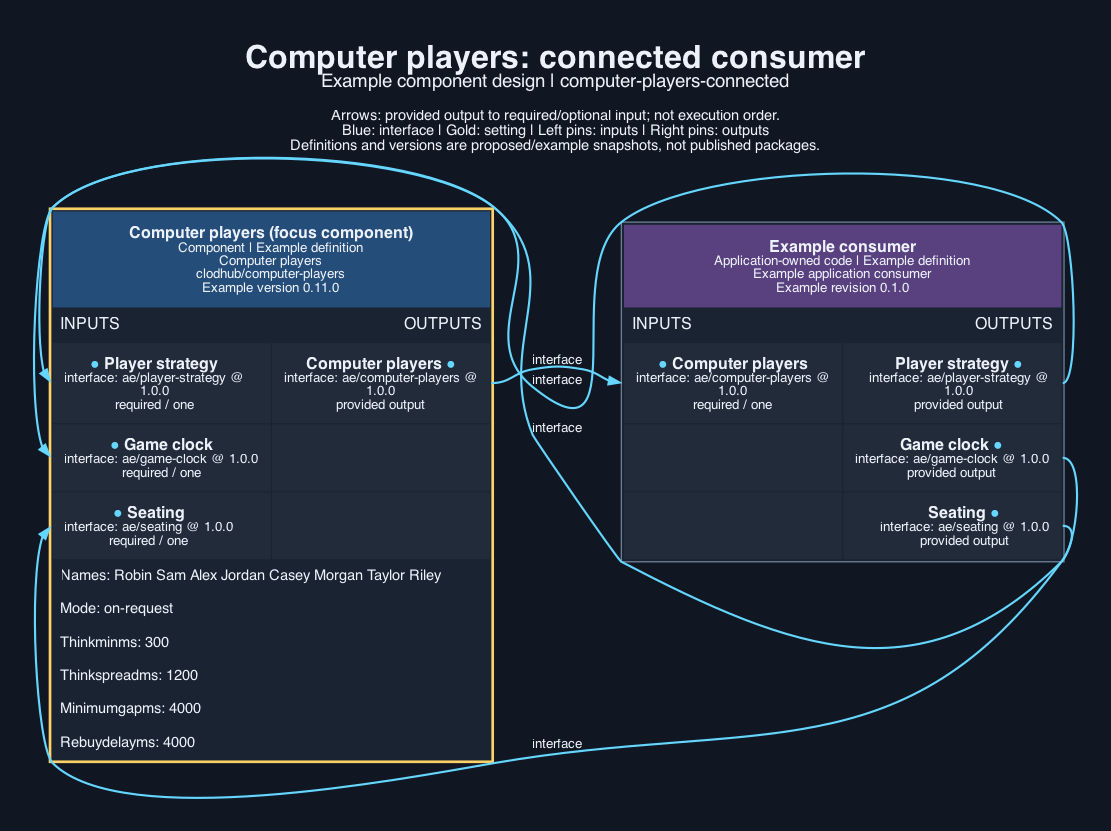
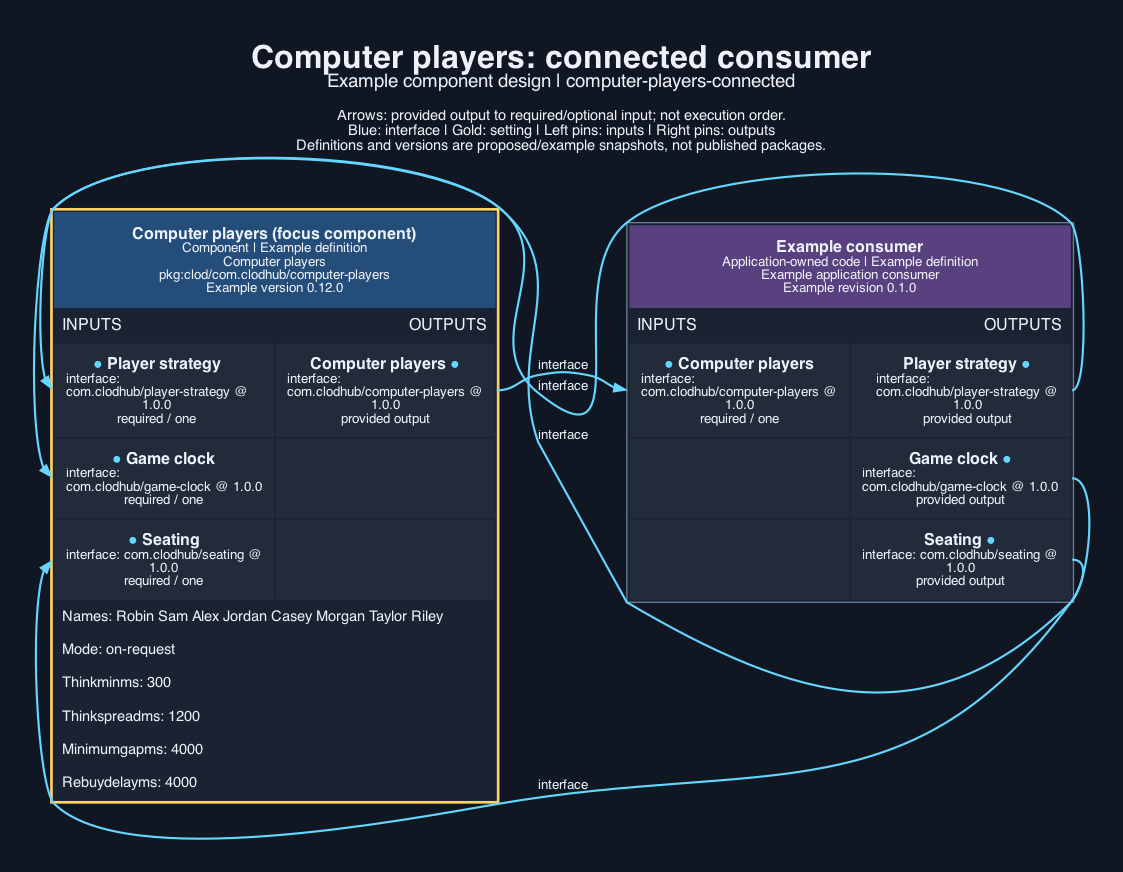
computer-players 0.12.0: package URL names, clod, com.clodhub interface types

Changed region(s): [[0.0306, 0.0301, 0.9793, 0.9627], [0.5203, 0.6017, 0.5509, 0.6619], [0.8263, 0.8123, 0.8569, 0.8424]]

diff --git a/tests/web.test.ts b/tests/web.test.ts
@@ -27,7 +27,7 @@ test("mode derives enabled, fillEmptySeats and takeOverAbsent; the default is on
   assert.deepEqual(derived("fill-empty"), ["fill-empty", true, true, true]);
   assert.deepEqual(derived("none"), ["none", false, false, false]);
   assert.deepEqual(MODES, ["none", "on-request", "fill-empty"]);
-  for (const mode of MODES) assert.ok(/^[A-Za-z][A-Za-z0-9 -]{0,63}$/.test(mode), "each mode fits aepm's label grammar");
+  for (const mode of MODES) assert.ok(/^[A-Za-z][A-Za-z0-9 -]{0,63}$/.test(mode), "each mode fits clod's label grammar");
   assert.throws(() => checkSettings({ mode: "always" as ComputerMode }), /mode must be one of/);
   assert.throws(() => checkSettings({ mode: true as unknown as ComputerMode }));
 });
@@ -41,7 +41,7 @@ test("name lists parse from the installer's space separated text", () => {
 test("names may be one space separated text that fits the installer's label grammar", () => {
   const LABEL = /^[A-Za-z][A-Za-z0-9 -]{0,63}$/;
   const installerDefault = DEFAULT_NAMES.join(" ");
-  assert.ok(LABEL.test(installerDefault), "the default setting text matches aepm's label grammar");
+  assert.ok(LABEL.test(installerDefault), "the default setting text matches clod's label grammar");
   assert.deepEqual(parseNames(installerDefault), DEFAULT_NAMES);
   assert.deepEqual(checkSettings({ names: installerDefault }).names, DEFAULT_NAMES);
   assert.deepEqual(checkSettings({ names: "Ann Bob" }).names, ["Ann", "Bob"]);

diff --git a/CONTRACT.md b/CONTRACT.md
@@ -24,12 +24,12 @@ Dependencies: none.
 `tools.lock.json` pins verification tools: node 26.5. Licence: `Apache-2.0` (`LICENCE`, `NOTICE`).
 
 ## Provided interfaces
-- `interfaces/computer-players.json` defines `computer-players` (ae/computer-players) version 1.0.0: an OpenRPC 1.3.2 document, one method per function (a member of a created object is `<Type>.<member>`), with parameter, result and data types as JSON Schema 2020-12 (`components.schemas`) and thrown errors under `errors`.
+- `interfaces/computer-players.json` defines `computer-players` (com.clodhub/computer-players) version 1.0.0: an OpenRPC 1.3.2 document, one method per function (a member of a created object is `<Type>.<member>`), with parameter, result and data types as JSON Schema 2020-12 (`components.schemas`) and thrown errors under `errors`.
 
 ## Required interfaces
-- `player-strategy` (ae/player-strategy) version 1.0.0, supplied by the recipe or application.
-- `game-clock` (ae/game-clock) version 1.0.0, supplied by the recipe or application.
-- `seating` (ae/seating) version 1.0.0, supplied by the recipe or application.
+- `player-strategy` (com.clodhub/player-strategy) version 1.0.0, supplied by the recipe or application.
+- `game-clock` (com.clodhub/game-clock) version 1.0.0, supplied by the recipe or application.
+- `seating` (com.clodhub/seating) version 1.0.0, supplied by the recipe or application.
 
 Each `interfaces/required-<id>.json` is a byte copy of the providing component's document.
 
@@ -43,7 +43,7 @@ Build it once with `createComputers(settings, {strategy, clock, seating})` from 
 No service is deployed. The only state is the strategy's memory, part of the game state the room stores. No accounts or keys.
 
 ## Verification
-`node --test tests/web.test.ts` checks settings, neutral default names (none of the recipe's poker names), name list parsing (space separated, the default fitting aepm's label grammar), `mode` (the default, the three derived values for each mode, refusal of an unknown mode), mode `none`, adding until names or seats run out, filling, take-over of absent players, deadline arithmetic (settle, gap, thinking time, bounds), wake time, rebuy time, strategy calls that cannot change the stored memory, and the runnable consumer. The tests use small stand-ins for the strategy, clock and seating (`tests/fakes.ts`). No Swift or Kotlin: the recipe's clients have no computer-player code.
+`node --test tests/web.test.ts` checks settings, neutral default names (none of the recipe's poker names), name list parsing (space separated, the default fitting clod's label grammar), `mode` (the default, the three derived values for each mode, refusal of an unknown mode), mode `none`, adding until names or seats run out, filling, take-over of absent players, deadline arithmetic (settle, gap, thinking time, bounds), wake time, rebuy time, strategy calls that cannot change the stored memory, and the runnable consumer. The tests use small stand-ins for the strategy, clock and seating (`tests/fakes.ts`). No Swift or Kotlin: the recipe's clients have no computer-player code.
 
 - `node --test tests/web.test.ts` (web, required-local; tools: node 26.5)
 

diff --git a/INSTRUCTIONS.md b/INSTRUCTIONS.md
@@ -1,9 +1,9 @@
 # Computer players instructions
 
 ## For the agent
-Select `clodhub/computer-players` once per recipe, always. Map the recipe's computer players answer to `mode`: `none`, `on-request` (default) or `fill-empty`. Set `names` only when the recipe has its own list. Connect `player-strategy` to the strategy component (poker-strategy for poker), `game-clock` and `seating`, then connect the provided `computer-players` to turn-engine (it needs the port even for mode `none`). Give `names` as words separated by spaces.
+Select `pkg:clod/com.clodhub/computer-players` once per recipe, always. Map the recipe's computer players answer to `mode`: `none`, `on-request` (default) or `fill-empty`. Set `names` only when the recipe has its own list. Connect `player-strategy` to the strategy component (poker-strategy for poker), `game-clock` and `seating`, then connect the provided `computer-players` to turn-engine (it needs the port even for mode `none`). Give `names` as words separated by spaces.
 
-- Select package `clodhub/computer-players` version `0.11.0`.
+- Select package `pkg:clod/com.clodhub/computer-players` version `0.12.0`.
 - Settings to configure:
   - `names` (string, label; optional; default `Robin Sam Alex Jordan Casey Morgan Taylor Riley`)
   - `mode` (string, label; optional; default `on-request`; `none`, `on-request` or `fill-empty`)
@@ -11,10 +11,10 @@ Select `clodhub/computer-players` once per recipe, always. Map the recipe's comp
   - `thinkSpreadMs` (integer; optional; default `1200`)
   - `minimumGapMs` (integer; optional; default `4000`)
   - `rebuyDelayMs` (integer; optional; default `4000`)
-- Connect the provided `computer-players` (ae/computer-players 1.0.0) to the consumer that needs it.
-- Supply `player-strategy` (ae/player-strategy 1.0.0) from the component that provides it.
-- Supply `game-clock` (ae/game-clock 1.0.0) from the component that provides it.
-- Supply `seating` (ae/seating 1.0.0) from the component that provides it.
+- Connect the provided `computer-players` (com.clodhub/computer-players 1.0.0) to the consumer that needs it.
+- Supply `player-strategy` (com.clodhub/player-strategy 1.0.0) from the component that provides it.
+- Supply `game-clock` (com.clodhub/game-clock 1.0.0) from the component that provides it.
+- Supply `seating` (com.clodhub/seating 1.0.0) from the component that provides it.
 - No accounts or keys are needed.
 
 ## For the developer
@@ -24,4 +24,4 @@ Nothing to supply: no accounts or keys. Choose names that fit the application (e
 From the component directory:
 
 - `node --test tests/web.test.ts` (web, required-local; tools: node 26.5)
-- `python3 -m aepm review <digest> --store STORE --policy POLICY --trusted --allow-network` checks an archive fetched with `python3 -m aepm fetch clodhub/computer-players@VERSION --store STORE --from https://clodhub.com` and runs its suites.
+- `python3 -m clod review <digest> --store STORE --policy POLICY --trusted --allow-network` checks an archive fetched with `python3 -m clod fetch computer-players@VERSION --store STORE --from https://clodhub.com` and runs its suites.

diff --git a/visual/output/description.md b/visual/output/description.md
@@ -1,3 +1,3 @@
 # Computer players
 
-The computer-players component at version 0.11.0 provides ae/computer-players version 1.0.0 to an illustrative application consumer, which in turn supplies ae/player-strategy version 1.0.0 and ae/game-clock version 1.0.0 and ae/seating version 1.0.0. The 4 arrows each run from a named output to a required input of the same type and version. Setting values shown are placeholders and secrets appear only as references.
+The computer-players component at version 0.12.0 provides com.clodhub/computer-players version 1.0.0 to an illustrative application consumer, which in turn supplies com.clodhub/player-strategy version 1.0.0 and com.clodhub/game-clock version 1.0.0 and com.clodhub/seating version 1.0.0. The 4 arrows each run from a named output to a required input of the same type and version. Setting values shown are placeholders and secrets appear only as references.

diff --git a/.opencode/knowledge/workflow.md b/.opencode/knowledge/workflow.md
@@ -2,5 +2,5 @@
 
 Repository: `clodhub/computer-players`. Licence: `Apache-2.0` (`LICENCE`, `NOTICE`).
 Suite commands (from the package root): `node --test tests/web.test.ts`.
-Review a fetched archive: `python3 -m aepm review <digest> --store STORE --policy POLICY --trusted --allow-network`.
+Review a fetched archive: `python3 -m clod review <digest> --store STORE --policy POLICY --trusted --allow-network`.
 Always run Python with `-B`; never write bytecode into the repository.
